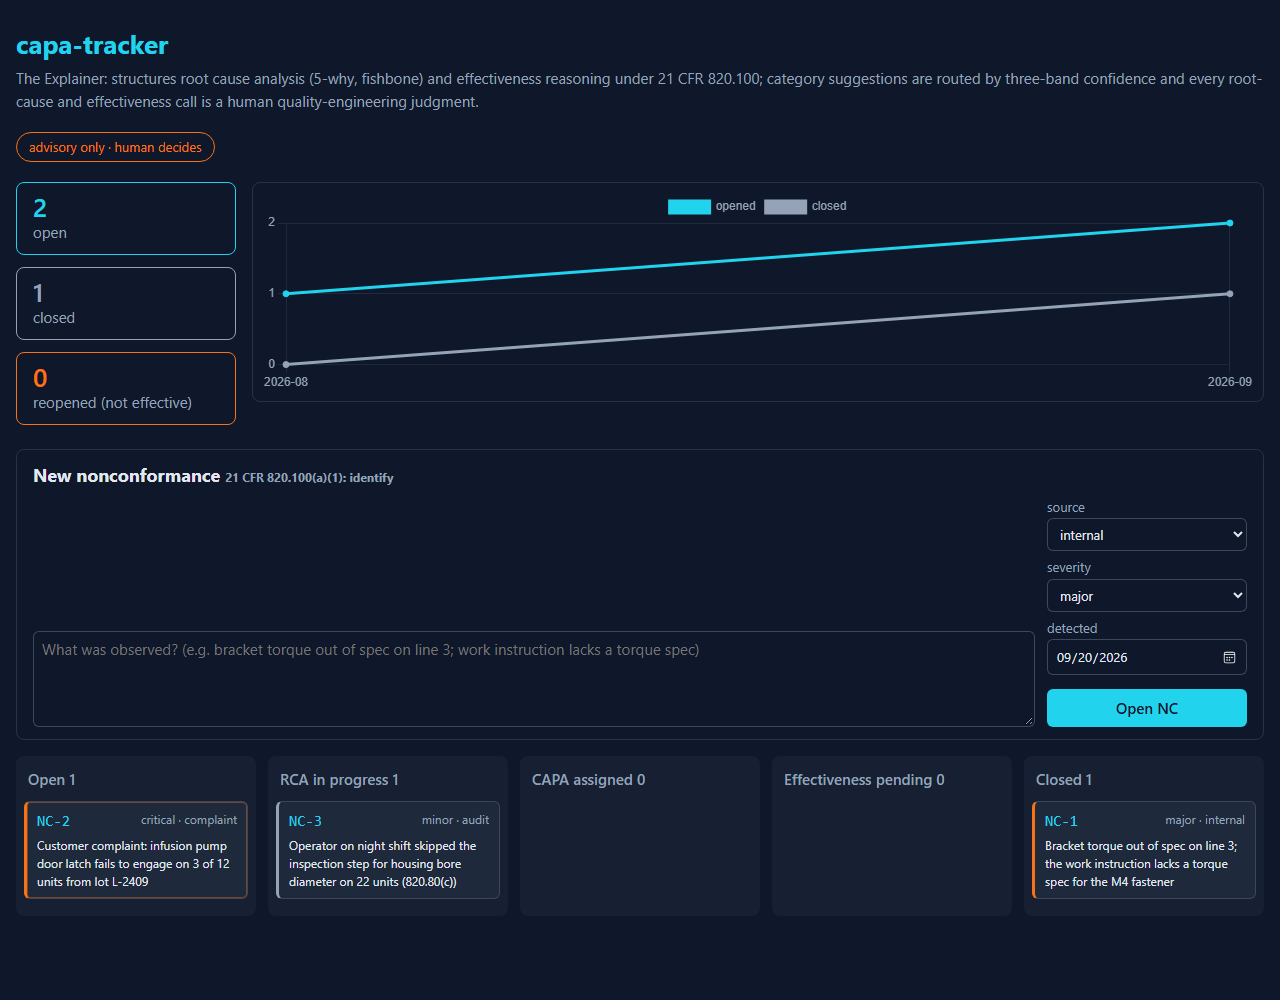
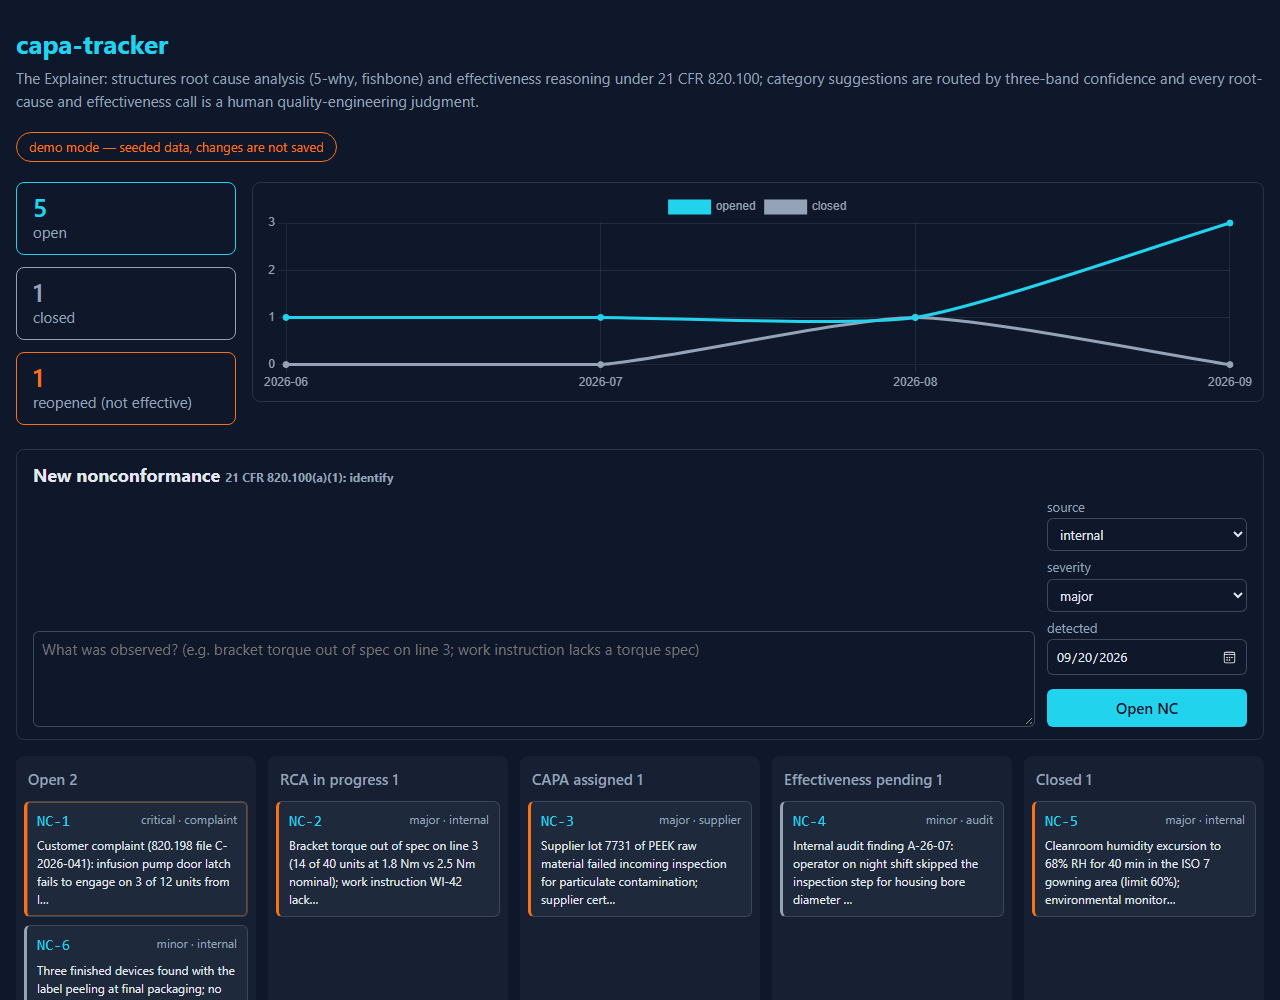
Phase 6: full-product transition tests (100% branch coverage), CI aligned with sibling, README, LICENSE, fresh screenshot
- tests: every NcStatus x NcStatus pair is its own parametrized test id (5 valid, 20 invalid);
  AMBIGUOUS and LOW RCA via API split into explicit cases; explicit-confidence branch covered.
  62 tests, 100% line + branch on app and schemas.
- ci.yml: separate npm ci / tsc / build steps, LF endings (matches traceability-matrix-dhf).
- README: 820.100(a)(1)-(7) pitch, lifecycle stateDiagram with sub-clause annotations,
  architecture flowchart, banded category suggestion, 5-why heuristic, talking points, API.
- docs/dashboard.png recaptured from the six-NC seed (all five columns, one reopened).
- LICENSE (MIT) referenced by the README badge.

diff --git a/tests/test_api.py b/tests/test_api.py
@@ -155,12 +155,30 @@ def test_reopen_on_not_effective() -> None:
     assert detail["capa"]["id"] == "CAPA-2" and detail["checks"][0]["result"] == "pending"
 
 
-def test_rca_ambiguous_leaves_suggested_none() -> None:
-    client.post("/nonconformance", json={**NC_BODY, "description": "operator on shift used gauge"})
+@pytest.mark.parametrize(
+    ("description", "band"),
+    [
+        ("gauge calibration was overdue and the fixture was worn", "AMBIGUOUS"),
+        ("operator on shift used gauge", "LOW"),
+    ],
+)
+def test_rca_non_high_leaves_suggested_none(description: str, band: str) -> None:
+    client.post("/nonconformance", json={**NC_BODY, "description": description})
     body = client.post("/rca", json={"nonconformance_id": "NC-1", "method": "fishbone"}).json()
     assert body["rca"]["suggested_category"] is None and body["rca"]["confidence"] is not None
-    assert body["rca"]["confidence_band"] in {"AMBIGUOUS", "LOW"}
+    assert body["rca"]["confidence_band"] == band == body["suggestion"]["band"]
     assert len(body["suggestion"]["candidates"]) == 2
+    assert (body["suggestion"]["prompt"] is not None) == (band == "LOW")
+
+
+def test_rca_explicit_confidence_is_kept() -> None:
+    client.post("/nonconformance", json=NC_BODY)
+    body = client.post(
+        "/rca",
+        json={"nonconformance_id": "NC-1", "method": "5-why", "confidence": 0.5},
+    ).json()
+    assert body["rca"]["confidence"] == 0.5 and body["rca"]["confidence_band"] == "LOW"
+    assert body["rca"]["suggested_category"] is None and body["suggestion"]["band"] == "HIGH"
 
 
 def test_rca_suggest_endpoint() -> None:

diff --git a/tests/test_workflow.py b/tests/test_workflow.py
@@ -27,20 +27,24 @@ def at(status: NcStatus) -> Nonconformance:
     return NC.model_copy(update={"status": status})
 
 
-def test_every_valid_transition() -> None:
-    for a, b in itertools.pairwise(PATH):
-        assert transition(at(a), b).status is b
-    assert transition(at(NcStatus.EFFECTIVENESS_PENDING), NcStatus.CAPA_ASSIGNED).status is (
-        NcStatus.CAPA_ASSIGNED
-    )
+VALID = [(a, b) for a in NcStatus for b in NcStatus if b in TRANSITIONS[a]]
+INVALID = [(a, b) for a in NcStatus for b in NcStatus if b not in TRANSITIONS[a]]
 
 
-def test_every_invalid_transition_raises() -> None:
-    invalid = [(a, b) for a in NcStatus for b in NcStatus if b not in TRANSITIONS[a]]
-    assert len(invalid) == len(NcStatus) ** 2 - 5
-    for a, b in invalid:
-        with pytest.raises(InvalidTransition):
-            transition(at(a), b)
+def test_transition_table_is_the_five_step_path_plus_reopen() -> None:
+    assert set(VALID) == {*itertools.pairwise(PATH), (PATH[3], PATH[2])}
+    assert len(VALID) + len(INVALID) == len(NcStatus) ** 2 == 25
+
+
+@pytest.mark.parametrize(("a", "b"), VALID, ids=[f"{a.value}->{b.value}" for a, b in VALID])
+def test_valid_transition(a: NcStatus, b: NcStatus) -> None:
+    assert transition(at(a), b).status is b
+
+
+@pytest.mark.parametrize(("a", "b"), INVALID, ids=[f"{a.value}->{b.value}" for a, b in INVALID])
+def test_invalid_transition_raises(a: NcStatus, b: NcStatus) -> None:
+    with pytest.raises(InvalidTransition, match=f"{a.value} -> {b.value}"):
+        transition(at(a), b)
 
 
 def test_reopen_on_not_effective() -> None:

diff --git a/README.md b/README.md
@@ -1,0 +1,247 @@
+# capa-tracker
+
+[![CI](https://github.com/LSaiko/capa-tracker/actions/workflows/ci.yml/badge.svg)](https://github.com/LSaiko/capa-tracker/actions/workflows/ci.yml)
+[![License: MIT](https://img.shields.io/badge/License-MIT-yellow.svg)](LICENSE)
+[![Live demo](https://img.shields.io/badge/demo-GitHub%20Pages-22d3ee)](https://lsaiko.github.io/capa-tracker/)
+
+**CAPA workflow for FDA-regulated devices: a nonconformance cannot be closed until its
+corrective action has been verified to work, and every step is recorded the way
+21 CFR 820.100 asks for it.**
+
+When a medical device manufacturer finds a defect, a complaint or an audit finding, the FDA
+Quality System Regulation does not just require a fix. 21 CFR 820.100(a) requires a
+documented Corrective and Preventive Action (CAPA) procedure that (1) analyses quality data
+to identify the problem, (2) investigates its cause, (3) identifies the action needed to
+correct it and prevent recurrence, (4) verifies or validates that the action was effective
+and did not break anything else, (5) implements and records the change, (6) tells the people
+responsible for quality, and (7) brings it to management review; and 820.100(b) requires all
+of it to be documented. This tool is that workflow as a state machine: intake, root cause
+analysis, corrective action, a scheduled effectiveness check the record cannot skip, and
+closure into a signed evidence bundle. An "Explainer" assistant helps the quality engineer
+structure the root cause analysis (5-why chain, fishbone categories) with an explicit
+confidence band on every suggestion, but it never decides the root cause or the
+effectiveness result: those stay human quality-engineering judgments.
+
+[![Dashboard: CAPA board with all five lifecycle columns, opened/closed trend, reopened counter](docs/dashboard.png)](https://lsaiko.github.io/capa-tracker/)
+
+_Click the screenshot to open the live demo (seeded with synthetic data, no backend required;
+the demo workflow runs in the browser so you can move a nonconformance through every state)._
+
+## Contents
+
+- [The CAPA lifecycle](#the-capa-lifecycle)
+- [Architecture](#architecture)
+- [Confidence-banded category suggestion](#confidence-banded-category-suggestion)
+- [The 5-why heuristic](#the-5-why-heuristic)
+- [Interview talking points](#interview-talking-points)
+- [Quick start](#quick-start)
+- [API](#api)
+- [Layout and dev commands](#layout-and-dev-commands)
+- [License](#license)
+
+## The CAPA lifecycle
+
+Five states, one loop. Each state is where the record satisfies a sub-clause of
+21 CFR 820.100(a); the only way out of `Effectiveness check pending` is a recorded result,
+and only an `effective` result opens the door to `Closed`.
+
+```mermaid
+stateDiagram-v2
+    direction LR
+    [*] --> Open
+    Open --> RCA_in_progress: POST /rca
+    RCA_in_progress --> CAPA_assigned: POST /capa
+    CAPA_assigned --> Effectiveness_check_pending: check scheduled
+    Effectiveness_check_pending --> Closed: result effective, POST /close
+    Effectiveness_check_pending --> CAPA_assigned: result not_effective (reopen)
+    Closed --> [*]
+
+    Open: Open — 820.100(a)(1) identify from quality data
+    RCA_in_progress: RCA in progress — 820.100(a)(2) investigate the cause
+    CAPA_assigned: CAPA assigned — 820.100(a)(3) action to correct and prevent recurrence
+    Effectiveness_check_pending: Effectiveness check pending — 820.100(a)(4) verify or validate
+    Closed: Closed — 820.100(a)(5)-(7), 820.100(b) record, disseminate, management review
+```
+
+Every other transition is rejected with HTTP 409 (`Open -> Closed`, `RCA in progress ->
+Closed`, and so on: all 20 invalid pairs are tested individually). A `not_effective` result
+sends the record back to `CAPA assigned`, a revised action replaces the one that did not
+work, a new check is scheduled, and the reopen is counted on the metrics tile.
+
+## Architecture
+
+```mermaid
+flowchart LR
+    W[React/TS dashboard<br/>CAPA board] --> A[FastAPI app/main.py]
+    A --> S[store<br/>in-memory records]
+    A --> F[workflow<br/>state machine + closure gate]
+    A --> R[rca<br/>5-why prompts, fishbone categorizer]
+    A --> C[scheduler<br/>effectiveness check]
+    R --> T{Three-band routing<br/>HIGH / AMBIGUOUS / LOW}
+    S --> B[build_closure_bundle<br/>ClosureEvidence]
+    B --> P[Closure report PDF<br/>ReportLab]
+    B --> J[ClosureEvidence JSON<br/>schema 1.0]
+    J --> D[traceability-matrix-dhf]
+```
+
+The PDF and the JSON are rendered from the same `ClosureEvidence` object
+(`app/export.py`), so the human-readable and machine-readable records cannot disagree. The
+JSON contract is documented in [docs/closure-evidence-schema.md](docs/closure-evidence-schema.md)
+and generated into [docs/closure-evidence.schema.json](docs/closure-evidence.schema.json);
+a test fails if the file and the model drift apart.
+
+## Confidence-banded category suggestion
+
+When a nonconformance is described, the Explainer scores the six Ishikawa (fishbone)
+categories, Method / Machine / Material / Manpower / Measurement / Environment, and routes
+the result through three bands:
+
+| Band | Confidence | What the tool does |
+|---|---|---|
+| HIGH | >= 0.80 | Auto-suggests the category (`suggested` is set) |
+| AMBIGUOUS | 0.55 - 0.79 | Presents the top two candidates for the human to choose |
+| LOW | < 0.55 | Asks a clarifying question instead of guessing |
+
+The scorer (`app/rca.py`) is a keyword heuristic, not a classifier: each category has a
+hand-picked vocabulary with weights 3 (strong, e.g. `torque spec`, `supplier`, `humidity`),
+2 (typical, e.g. `procedure`, `calibration`) and 1 (weak, e.g. `operator`, `spec`), matched
+as whole words on the lower-cased description. The confidence is
+
+```
+confidence = (top_score / sum_of_all_category_scores) * min(1, top_score / 3)
+```
+
+The first factor measures how dominant the top category is; the second keeps a single weak
+hit from looking certain ("the operator noticed it" scores Manpower 1, confidence 0.33, LOW).
+"Wrong torque spec" is Method 4 with nothing else, confidence 1.0, HIGH. "Gauge calibration
+was overdue and the fixture was worn" is Measurement 5 vs Machine 3, confidence 0.625,
+AMBIGUOUS, so both are offered. The ceiling and the upgrade path are named in the code
+(`# ponytail:` comment): exact vocabulary, no synonyms or negation; the upgrade is embeddings
+or an LLM classifier behind the same `CategorySuggestion` contract, so the API and the bands
+do not change.
+
+The role boundary is deliberate. The Explainer organises what the engineer says and tells
+them how sure it is. It never fills `root_cause_text`, never sets an effectiveness result,
+and in the LOW band it does not produce a category at all. The closure report prints the
+suggestion with its band and the line "the suggestion is advisory only" next to the
+human-entered root cause.
+
+## The 5-why heuristic
+
+The 5-why wizard chains each question off the previous answer ("Why did *the tool was not
+calibrated on schedule* happen?") and flags each answer with whether it *reads* systemic: an
+answer that names a missing system element (`no procedure`, `not trained`, `never`,
+`lacks`, ...) is flagged as reading like a root cause; an answer that restates the failure
+(`failed`, `was wrong`, `defective`) is flagged as a symptom with "ask why again". This is a
+heuristic, not certainty: the flag suggests the chain may be deep enough, and the quality
+engineer decides when to stop and what to write as the root cause. The marker lists, the
+formula above and worked examples are in [docs/rca-heuristics.md](docs/rca-heuristics.md).
+
+## Interview talking points
+
+**Why effectiveness checks are the step most QMS implementations skip.** It is easy to close
+a CAPA on "action taken" and hard to close it on "action worked", because the second needs a
+date in the future, a method, and evidence collected after the fix went in. Many quality
+systems record the action and move on, which is why FDA 483 observations so often cite
+820.100(a)(4): the verification or validation of the corrective action is missing,
+undocumented, or done before the action was implemented. This tool makes the check a
+*state*, not a calendar reminder. When a CAPA is assigned, the scheduler creates a pending
+`EffectivenessCheck` at due date plus the review interval (30 days by default,
+`CAPA_EFFECTIVENESS_INTERVAL_DAYS`) and the nonconformance enters `Effectiveness check
+pending`. The record cannot leave that state without a result, `Closed` is only reachable
+from it, and the closure gate rejects anything but an `effective` result for the same CAPA.
+The reopen edge is what makes this enforceable: a `not_effective` result does not fail the
+record or get argued with, it sends the record back to `CAPA assigned` for a revised
+action, which gets its own scheduled check. The loop closes only when the fix is shown to
+work.
+
+**The confidence-banding design for category suggestion.** A category suggestion is useful
+when it is right and harmful when it is confidently wrong, because the category shapes
+which causes the team looks for. A binary "best guess" hides the difference between "the
+description says torque spec, this is Method" and "the description mentions a shift and a
+gauge, could be people or measurement". Three bands let the tool pass through only the
+unambiguous case, hand the two-way case to the engineer as a choice with both scores
+visible, and, in the LOW band, ask instead of guess. Asking is the correct output when the
+evidence is thin: a clarifying question costs the engineer ten seconds and a wrong category
+can cost the investigation. The band is stored on the RCA record and printed on the closure
+report, so an auditor can see how much the tool claimed at the time.
+
+**Why the closure PDF and the JSON come from the same bundle.** A closure record has two
+audiences: the reviewer who reads a PDF, and the design-history tooling that ingests JSON
+to link the CAPA to the requirements it affects. If those are produced by separate code
+paths they drift: a field gets added to one, a label changes in the other, and the auditor
+holds two documents that disagree about the same closure. `build_closure_bundle` assembles
+one `ClosureEvidence` object from the store; `render_closure_report` and `export_json` are
+both pure functions of that object. There is one source of truth, and the JSON schema is
+generated from the same Pydantic model and asserted in tests, so the machine-readable
+contract cannot silently diverge from what the PDF says.
+
+## Quick start
+
+```bash
+# backend (Python >= 3.12)
+pip install -e .[dev]
+uvicorn app.main:app --reload          # http://127.0.0.1:8000/docs
+
+# dashboard (Node 22)
+cd dashboard && npm ci && npm run dev  # seed mode unless the API answers /health
+
+# checks (what CI runs)
+ruff check . && mypy app schemas && pytest --cov=app --cov=schemas --cov-branch
+cd dashboard && npx tsc --noEmit && npm run build
+```
+
+| Env var | Where | Purpose |
+|---|---|---|
+| `ALLOWED_ORIGINS` | backend | Comma-separated CORS origins (default `*`) |
+| `CAPA_EFFECTIVENESS_INTERVAL_DAYS` | backend | Days after the CAPA due date to schedule the check (default 30) |
+| `VITE_API_BASE` | dashboard | Backend URL (default `http://localhost:8000`); seed mode if unreachable |
+| `VITE_BASE` | dashboard build | URL subpath, e.g. `/capa-tracker/` for Pages (non-root forces seed mode) |
+
+## API
+
+| Method | Path | Body / query | Returns |
+|---|---|---|---|
+| GET | `/health` | | `{"status": "ok"}` |
+| POST | `/nonconformance` | description, source, severity, detected_date | `Nonconformance` as `NC-n`, status `open` |
+| GET | `/nonconformances` | | all nonconformances |
+| GET | `/nonconformance/{nc_id}` | | record + RCA + per-answer 5-why flags + CAPA + checks + closure |
+| GET | `/rca/suggest` | `?description=` | `CategorySuggestion` (candidates, confidence, band, suggested, prompt) |
+| POST | `/rca` | `RootCauseAnalysis` (5-why steps or fishbone entries) | stored RCA with band + the suggestion; NC -> `rca_in_progress` |
+| POST | `/capa` | nonconformance_id, action_description, owner, due_date | `CorrectiveAction` as `CAPA-n` + scheduled pending check; NC -> `effectiveness_pending` |
+| POST | `/effectiveness-check` | `EffectivenessCheck` (result effective / not_effective) | NC (reopened to `capa_assigned` on not_effective) + check |
+| POST | `/close` | `ClosureRecord` (closed_by, linked_requirement_ids) | `ClosureEvidence`; 409 unless the check is `effective` |
+| GET | `/closure/{capa_id}/evidence.json` | | `ClosureEvidence` JSON (schema 1.0) |
+| GET | `/closure/{capa_id}/report.pdf` | | closure report PDF with the 820.100 basis |
+| GET | `/open-capas` | | every non-closed CAPA with its pending check |
+| GET | `/metrics` | | open / closed / by_status / opened_by_month / closed_by_month / reopened |
+
+Unknown ids return 404; a transition the state machine forbids returns 409 with the
+`from -> to` pair in the detail. The store is in-memory (`# ponytail:` note in `app/store.py`).
+
+## Layout and dev commands
+
+- `/app` FastAPI backend: `workflow.py` (state machine, closure gate), `rca.py` (5-why prompts,
+  fishbone categorizer), `scheduler.py` (effectiveness check), `store.py`, `report.py`
+  (ReportLab PDF), `export.py` (ClosureEvidence bundle + JSON schema generator)
+- `/schemas` Pydantic v2 models (`extra="forbid"` everywhere)
+- `/dashboard` React/TS (Vite, Chart.js) CAPA board; seed mode for GitHub Pages
+- `/tests` pytest (schemas, RCA heuristics, scheduler, every valid and invalid state
+  transition, API happy path, reopen, 404/409, PDF/JSON endpoints, metrics bucketing)
+- `/docs` [RCA heuristics](docs/rca-heuristics.md),
+  [ClosureEvidence schema](docs/closure-evidence-schema.md)
+- `/.github/workflows` CI (ruff, mypy, pytest with coverage on 3.12/3.13; tsc + Vite build)
+  and Pages deploy of `dashboard/dist`
+
+```bash
+python -m venv .venv && .venv/Scripts/pip install -e .[dev]
+.venv/Scripts/python -m pytest --cov=app --cov=schemas --cov-branch --cov-report=term-missing
+.venv/Scripts/ruff check . && .venv/Scripts/mypy app schemas
+.venv/Scripts/python -m app.export        # regenerate docs/closure-evidence.schema.json
+uvicorn app.main:app --reload
+cd dashboard && npm ci && npx tsc --noEmit && npm run build
+```
+
+## License
+
+MIT, see [LICENSE](LICENSE).
